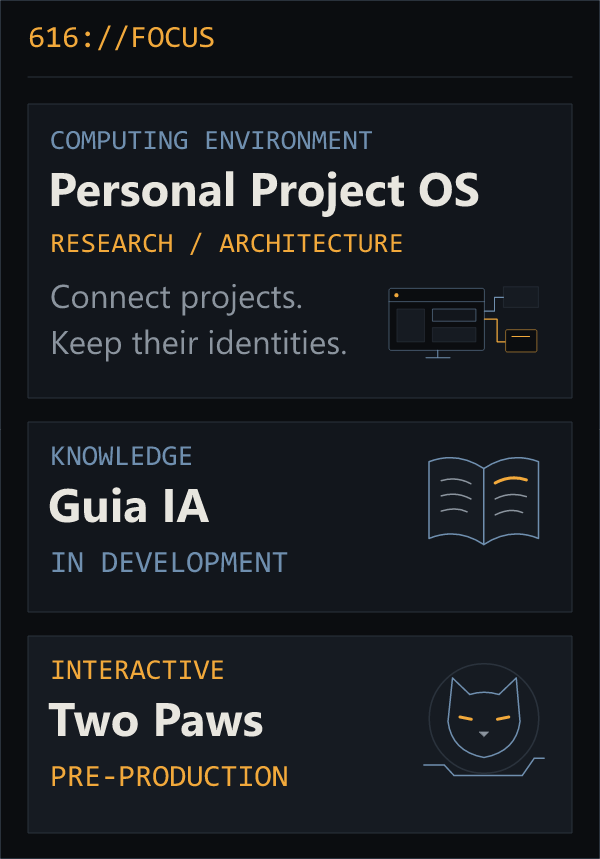
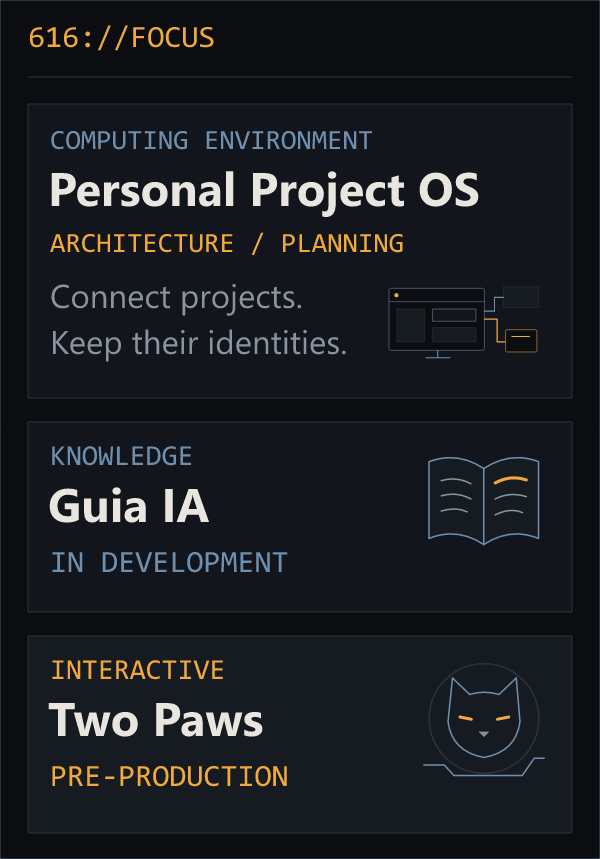
refactor(profile): clean public workstation copy

Changed region(s): [[0.09, 0.2724, 0.69, 0.3027]]

diff --git a/docs/WORKSTATION_CANDIDATE_REPORT.md b/docs/WORKSTATION_CANDIDATE_REPORT.md
@@ -1,6 +1,12 @@
 # LB / 616 — Workstation Candidate
 
-Candidate for Luciano's visual review, not an approved profile release. Reviewed on 14 September 2026.
+Workstation direction approved by Luciano. This branch remains a candidate, with an editorial and UX cleanup for visual review. Reviewed on 14 September 2026.
+
+## Editorial and UX cleanup
+
+Starting reference: `dc0565c47180b8a2c2344252730320be40e43de0`. This pass changes public wording and removes redundant disclosures; it does not redesign the page. Public labels now describe direction and stage. Source availability and technical uncertainty remain documented below, outside the README.
+
+Disclosures reduced from **12 to 8**: five project records and three professional practice areas. Toolchain is always visible. TRACE became one native workflow sentence. Scientific Partner remains inside Digital Life Lab as visible subsystem content, without another toggle. Current Focus retains the same three projects; its Personal Project OS label now reads **ARCHITECTURE / PLANNING** in both artwork and native text.
 
 ## Architecture
 
@@ -12,17 +18,17 @@ The original hero retains its graphite / amber identity, with a short boot seque
 
 | Project | Placement and verified limits |
 | --- | --- |
-| Digital Life Lab | Long-term flagship; expanded by default. Direction confirmed by the owner, current source files unavailable. Implementation stage remains **unverified**. Scientific Partner is a nested subsystem. |
-| Personal Project OS | Core; Current Focus. Architecture research and planning, without an implementation claim. |
+| Digital Life Lab | Public: **FLAGSHIP · LONG-TERM PROJECT**; expanded by default. Internal: direction confirmed by the owner, current source files unavailable. Implementation remains **unverified**, including Scientific Partner, its research subsystem. |
+| Personal Project OS | Public: **CORE · ARCHITECTURE / PLANNING**; Current Focus. Internal: architecture research and planning; implementation has not started. |
 | Guia IA | Current Focus; private, in development. Original book identity preserved. |
 | Two Paws | Current Focus; private, pre-production with local gameplay prototypes. Original cat identity preserved. |
-| Presença IA | Experimental; technology under review. An earlier Godot 2D rig is documented; continued implementation, 3D and live AI integration are unverified. No migration was performed. |
+| Presença IA | Public: **EXPERIMENT · TECHNOLOGY EXPLORATION**. Internal: engine undecided. An earlier Godot 2D rig is documented; continued implementation, 3D and live AI integration are unverified. No migration was performed. Engine comparison stays in the local `PRESENCA_TECH_REVIEW.md`. |
 
 Excluded: Ruptura, Chappie Local, old Mini Chappie, Jarvis, and projects outside the selected living ecosystem. Jarvis is not Luciano's project. Current Digital Life Lab and robot source files remain missing from the inspected material; the robot is excluded by the latest scope. No repository was made public.
 
 ## Interaction and motion
 
-- Twelve native `details` elements, including five project records and nested Scientific Partner; clear summaries, pointer and keyboard operation.
+- Eight native `details` elements: five project records and three professional practice areas; clear summaries, pointer and keyboard operation.
 - Five top navigation links, project anchors, clickable hero/focus artwork and a return link.
 - One animation concept: desktop/mobile APNG boot cursor, one three-second play, then a static end state. Reduced-motion preferences select separate static images. No animated SVG dependency.
 - README uses supported Markdown/HTML and raster images, with no custom CSS, runtime JavaScript, iframe or injected script. Build and preview scripts are external to the rendered README.
@@ -31,7 +37,11 @@ GitHub documents [native collapsed sections](https://docs.github.com/en/get-star
 
 ## Validation
 
-All 16 local profile-layout cases and 16 actual GitHub branch cases passed in Chromium: widths 320, 360, 390, 430, 768, 1000, 1001 and 1440, each in dark and light mode. Checks covered image loading, responsive sources, navigation, disclosure toggles, nested keyboard interaction and reduced motion. The GitHub-served APNG changed frames and settled as intended.
+Cleanup: all ten local profile-layout cases passed in Chromium, at 320, 360, 390, 430 and 1440 px in dark and light modes. Checks include public wording, stages, eight disclosures, visible toolchain/subsystem, pointer/keyboard controls, anchors, images, alt text and reduced-motion source selection. Desktop, 320 px and light screenshots were visually inspected. No overflow was detected. The expanded-project capture shows Digital Life Lab open.
+
+Cleanup previews are in `_profile-work/workstation-cleanup/`: `github-profile-desktop.png`, `github-profile-mobile-390.png`, `github-profile-mobile-320.png`, `github-profile-light.png` and `github-profile-project-expanded.png`. Verification JSON is retained beside them. Hero, boot APNG, palette, capability artwork, navigation and hierarchy are preserved; only the focus artwork's OS wording changes.
+
+Baseline validation at `f86197a`: all 16 local profile-layout cases and 16 actual GitHub branch cases passed in Chromium at 320–1440 px in both themes, including the then-nested keyboard interaction. The GitHub-served APNG changed frames and settled as intended. No new motion or duration change is part of this cleanup.
 
 Desktop preserves visual hierarchy; separate mobile artwork stacks the complex panels. Dark panels remain visible in light mode. Every image has useful alt text; essential names, stages, tools and links also exist as native text. This is browser and keyboard verification, not a full assistive-technology audit.
 
@@ -39,13 +49,13 @@ Local artifacts in `_profile-work/workstation/`: the four requested `github-prof
 
 ## Historical comparison and identity
 
-**A / 198bb8d:** approved hero and book/cat identities preserved; navigation, connected panels and native records add structure and interaction. **B / 976c848:** Data & Automation remain central, with 254 default-visible native words versus 317 in B. **C / 25e5ebe:** the four generic boxes and reduced project presence are replaced by a hierarchical ecosystem.
+**A / 198bb8d:** approved hero and book/cat identities preserved; navigation, connected panels and native records add structure and interaction. **B / 976c848:** Data & Automation remain central, with 256 default-visible native words after cleanup versus 317 in B. **C / 25e5ebe:** the four generic boxes and reduced project presence are replaced by a hierarchical ecosystem.
 
-Internal identity review: workstation language, exploration, flagship prominence, Personal Project OS presence, professional clarity and distinct project identities are present. The registry contains five projects, not just Guia IA and Two Paws. Visual acceptance remains Luciano's decision.
+Internal cleanup review: the workstation identity and five-project hierarchy remain intact; Project Registry is the main interaction area. The four redundant accordions are removed. Public copy has no audit or QA language; source and engine uncertainties remain in this report and local technical notes. The three professional practice disclosures remain useful for optional capability detail. The direction is approved; visual acceptance of this cleanup remains Luciano's decision.
 
 ## Delivery
 
 - Branch: `profile/workstation-candidate`, created from main `be2300269c2b41ac16e0c664799027df1ecd5ad1`.
-- Tested implementation commit: `f86197aa0e7659263b976fa420712d4699993b3a`. This report is a documentation-only follow-up.
+- Original implementation: `f86197aa0e7659263b976fa420712d4699993b3a`; cleanup reference: `dc0565c`. The cleanup commit uses `refactor(profile): clean public workstation copy`.
 - Candidate push: completed. Main push: **NO**. Merge: **NO**. PR: **NO**.
 - Private-data and asset checks passed; original approved source artwork was preserved. Project repository visibility was unchanged.

diff --git a/README.md b/README.md
@@ -34,41 +34,28 @@ I work with data analysis, process automation and software, making operational w
   <img src="assets/workstation/capability-console.png" alt="Connected practice areas. Data: analysis, reporting, transformation. Automation: workflows, scripting, productivity. Software: tools, apps, systems. AI and experiments: agents, personal computing, interactive systems." width="100%">
 </picture>
 
-<details>
-<summary><strong>TRACE / operational workflow</strong></summary>
-
 Understand the data → simplify the workflow → build the tool → test it in context.
-
-Data analysis, reporting and transformation; workflow scripting; practical software; AI and interactive experiments.
-
-</details>
 
 ### // PROFESSIONAL TOOLCHAIN
 
-<details open>
-<summary><strong>01 / DATA &amp; AUTOMATION</strong> · toolset</summary>
+**01 / DATA & AUTOMATION**
 
-<p><strong>Data:</strong> Excel · Power Query · SQL<br><strong>Scripting:</strong> Google Apps Script · VBA · Python</p>
+<p>Excel · Power Query · SQL<br>Google Apps Script · VBA · Python</p>
 
-</details>
+**02 / SOFTWARE & AI**
 
-<details open>
-<summary><strong>02 / SOFTWARE &amp; AI</strong> · toolset</summary>
-
-<p><strong>Languages:</strong> TypeScript · JavaScript<br><strong>Tools:</strong> React · Git · AI Tooling · Godot</p>
-
-</details>
+<p>TypeScript · JavaScript · React<br>Git · AI Tooling · Godot</p>
 
 ### // CURRENT FOCUS
 
 <a href="#-project-registry">
 <picture>
   <source media="(max-width: 1000px)" srcset="assets/workstation/current-focus-mobile.png">
-  <img src="assets/workstation/current-focus.png" alt="Open project registry. Current focus: Personal Project OS — research / architecture; Guia IA — in development; Two Paws — pre-production. Workstation, open-book and cat identities." width="100%">
+  <img src="assets/workstation/current-focus.png" alt="Open project registry. Current focus: Personal Project OS — architecture / planning; Guia IA — in development; Two Paws — pre-production. Workstation, open-book and cat identities." width="100%">
 </picture>
 </a>
 
-<p><a href="#personal-project-os">Personal Project OS</a> · research / architecture<br><a href="#guia-ia">Guia IA</a> · in development<br><a href="#two-paws">Two Paws</a> · pre-production</p>
+<p><a href="#personal-project-os">Personal Project OS</a> · architecture / planning<br><a href="#guia-ia">Guia IA</a> · in development<br><a href="#two-paws">Two Paws</a> · pre-production</p>
 
 ### // PROJECT REGISTRY
 
@@ -78,34 +65,27 @@ Explore the records.
 
 <a name="digital-life-lab"></a>
 <details open>
-<summary><strong>01 / DIGITAL LIFE LAB</strong><br>FLAGSHIP · STAGE UNVERIFIED</summary>
+<summary><strong>01 / DIGITAL LIFE LAB</strong><br>FLAGSHIP · LONG-TERM PROJECT</summary>
 
 <picture>
   <source media="(max-width: 1000px)" srcset="assets/workstation/digital-life-lab-mobile.png">
   <img src="assets/workstation/digital-life-lab.png" alt="Digital Life Lab — long-term flagship vision for artificial life, digital organisms, AI, agents and simulation. Conceptual scientific diagram." width="100%">
 </picture>
 
-Artificial life, AI agents and simulation.
+Long-term research into artificial life, AI agents, simulation and research tools.
 
-<details>
-<summary><strong>└ Scientific Partner</strong> · research subsystem</summary>
-
-A companion for research within Digital Life Lab. Part of the same vision; implementation is unverified.
-
-</details>
-
-<sub>Direction confirmed; current source pending verification.</sub>
+**└ Scientific Partner** · RESEARCH SUBSYSTEM<br>
+A research companion within Digital Life Lab.
 
 </details>
 
 <a name="personal-project-os"></a>
 <details>
-<summary><strong>02 / PERSONAL PROJECT OS</strong><br>CORE · RESEARCH / ARCHITECTURE</summary>
+<summary><strong>02 / PERSONAL PROJECT OS</strong><br>CORE · ARCHITECTURE / PLANNING</summary>
 
-A personal computing environment to connect projects without absorbing them.
+A personal computing environment designed to connect projects, tools and AI workflows without absorbing them.
 
-**Tracks:** project registry · developer tools · AI · local-first systems.<br>
-**Stage:** architecture research and planning; implementation has not started.
+**Tracks:** Project Registry · Developer Tools · AI · Local-first systems.
 
 </details>
 
@@ -127,7 +107,7 @@ A practical Brazilian guide to working with modern AI. **Tracks:** education · 
 
 <img src="assets/projects/two-paws-mark.png" alt="Two Paws cat identity" width="40" height="40">
 
-A cat-driven exploration game. **Tracks:** Godot · game design · interactive systems. Local gameplay prototypes; the full game is in pre-production.
+A cat-driven exploration game. **Tracks:** Godot · exploration · game design · interactive systems.
 
 </details>
 
@@ -135,40 +115,38 @@ A cat-driven exploration game. **Tracks:** Godot · game design · interactive s
 
 <a name="presenca-ia"></a>
 <details>
-<summary><strong>05 / PRESENÇA IA</strong><br>EXPERIMENT · TECHNOLOGY UNDER REVIEW</summary>
+<summary><strong>05 / PRESENÇA IA</strong><br>EXPERIMENT · TECHNOLOGY EXPLORATION</summary>
 
 <img src="assets/workstation/presence-mark.png" alt="Presença IA face and expression study" width="64" height="60">
 
-A visual identity for AI through face, gaze and expression. **Tracks:** animation · AI interface · digital presence.
+Exploring visual identity for AI through face, gaze, expression and embodied interfaces.
 
-An earlier Godot 2D rig exists. The next visual approach and technology are being reconsidered; 3D and live AI integration are not verified.
+**Tracks:** Animation · AI Interface · Digital Presence.
 
 </details>
-
-<sub>Stage review: September 2026 · Private source.</sub>
 
 ### // PROFESSIONAL PRACTICE
 
 **Data & automation for everyday operations.**
 
 <details>
-<summary><strong>DATA / analysis, reporting &amp; transformation</strong></summary>
+<summary><strong>DATA / operational analysis &amp; reporting</strong></summary>
 
-Turn operational records into clear reports and useful information. Clean, combine and structure data so people can work with it.
+Operational analysis, reporting and transformation. Turn everyday records into clear, useful information.
 
 </details>
 
 <details>
 <summary><strong>AUTOMATION / spreadsheets &amp; workflows</strong></summary>
 
-Reduce repetitive tasks with spreadsheet automation, scripts and repeatable workflows.
+Spreadsheet automation, scripts and repeatable workflows that simplify routine work.
 
 </details>
 
 <details>
 <summary><strong>TOOLS / productivity &amp; process</strong></summary>
 
-Build practical tools around the way work happens, simplifying routine steps and improving access to information.
+Internal productivity tools built around practical work, with simpler processes and easier access to information.
 
 </details>
 

diff --git a/docs/DESIGN_DNA.md b/docs/DESIGN_DNA.md
@@ -1,6 +1,6 @@
 # LB / 616 — Workstation design DNA
 
-This branch is a **Workstation Candidate**, pending Luciano's visual review. The approved LB / 616 identity belongs to a person and a personal software lab.
+This branch is a **Workstation Candidate**. Luciano approved the direction; the editorial cleanup awaits visual review. The approved LB / 616 identity belongs to a person and a personal software lab.
 
 ## Palette and typography
 
@@ -20,7 +20,7 @@ Native metadata, links and disclosure controls create the interface between visu
 
 Digital Life Lab is the long-term flagship and opens by default. Its scientific panel contains original cellular/network geometry; Scientific Partner is a nested research subsystem. Current source and implementation remain unverified.
 
-Personal Project OS has a computing panel in Current Focus and a core record in the registry. Its verified stage is research/architecture, not an implemented OS.
+Personal Project OS has a computing panel in Current Focus and a core record in the registry. Its public stage is architecture/planning.
 
 Guia IA retains the original open-book geometry and editorial identity. Two Paws retains its cat and exploration path. The approved original covers remain in `assets/projects/` as references; Current Focus recomposes their visual motifs rather than displaying a wall of banners.
 
@@ -28,7 +28,9 @@ Presença IA is an experiment with technology under review following the owner's
 
 ## Interaction and motion
 
-The README uses supported native HTML/Markdown: anchors, clickable images, tables, details and summary. Twelve disclosures cover toolchain, project records, one nested subsystem and professional practice. A single APNG concept is exported for desktop/mobile: three one-second frames, one play, ending static. Reduced-motion visitors receive static PNGs. No SVG animation or client-side application code is required.
+The README uses supported native HTML/Markdown: anchors, clickable images, tables, details and summary. Eight disclosures cover five project records and three professional practice areas. Toolchain and workflow are native visible text; Scientific Partner stays within its parent project without an extra disclosure. A single APNG concept is exported for desktop/mobile: three one-second frames, one play, ending static. Reduced-motion visitors receive static PNGs. No SVG animation or client-side application code is required.
+
+Portfolio copy describes project direction and stage. Source availability, implementation uncertainty and technology decisions belong in the candidate report and technical notes, not in the README or illustrated labels.
 
 The illustrated interfaces are conceptual identity artwork. BUILDING describes Luciano's activity, not a measured service status. GitHub controls the page theme and layout; image panels remain graphite in both themes.
 
@@ -38,4 +40,4 @@ The illustrated interfaces are conceptual identity artwork. BUILDING describes L
 - B / `976c848`: retain professional Data + Automation positioning and the complete real toolset.
 - C / `25e5ebe`: replace compact marks and four disconnected capability boxes with a connected console, richer focus surface and explorable project records.
 
-The candidate is a design proposal, not an approved final version.
+The direction is approved; the branch remains a candidate until Luciano authorizes a merge.

diff --git a/docs/MAINTENANCE.md b/docs/MAINTENANCE.md
@@ -4,7 +4,9 @@ Work only on `profile/workstation-candidate`. Do not merge, push main or create 
 
 ## Content
 
-Edit `README.md` for native names, links, status, disclosure content and navigation. Keep `assets/projects/registry.json` aligned. Current Focus contains Personal Project OS (research), Guia IA and Two Paws; it is a selection, not the entire registry.
+Edit `README.md` for native names, links, status, disclosure content and navigation. Keep `assets/projects/registry.json` aligned. Current Focus contains Personal Project OS (architecture/planning), Guia IA and Two Paws; it is a selection, not the entire registry.
+
+Use portfolio language in public copy. Digital Life Lab is a long-term project; Presença IA is a technology exploration. Keep missing-source notes, unverified implementation and engine decisions in `docs/WORKSTATION_CANDIDATE_REPORT.md` and local technical notes. The registry has five project disclosures; Scientific Partner is native content inside Digital Life Lab. Three further disclosures cover professional practice. Toolchain and workflow stay visible without toggles.
 
 Digital Life Lab remains a long-term flagship with unverified implementation. Scientific Partner belongs within it. Presença IA is being reconsidered; do not imply a technology migration, 3D implementation or live AI connection has been completed.
 
@@ -25,7 +27,7 @@ On PowerShell with script execution disabled, use `npm.cmd`. The generator uses 
 
 ## Preview and compatibility
 
-Use the existing local `_profile-work/` infrastructure outside this public repository. The workstation harness renders through GitHub's Markdown API, captures historical references and tests pointer/keyboard disclosures, nested details, anchors, image loading, reduced-motion sources and APNG playback. It also verifies the actual GitHub candidate branch after push.
+Use the existing local `_profile-work/` infrastructure outside this public repository. The workstation harness renders through GitHub's Markdown API, captures historical references and tests pointer/keyboard disclosures, anchors, image loading, reduced-motion sources and APNG playback. The cleanup harness also checks eight disclosures, public labels and visible toolchain/subsystem content. It verifies the actual GitHub candidate branch after push.
 
 The local profile preview mirrors GitHub profile content widths: 238, 278, 308 and 348 px at mobile viewports of 320, 360, 390 and 430 px. It adds the heading anchors that the Markdown API omits; the actual GitHub branch page is tested separately. Preview CSS belongs only to the local harness, never the README.
 
